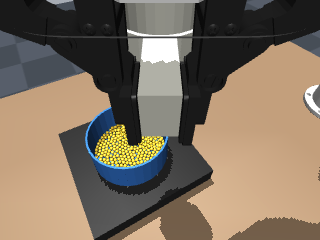
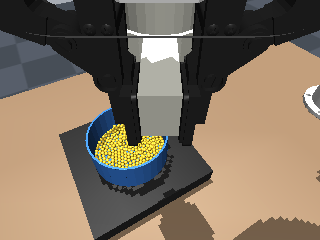
sim_xarm: README (layout, decisions, commands, diffusion_policy notes), final M1 numbers
Claude-Session: https://claude.ai/code/session_01ABg54f59N8u1Lt2EQujtwg

diff --git a/sim_xarm/README.md b/sim_xarm/README.md
@@ -3,9 +3,11 @@
 MuJoCo environment for the real-robot pouring task (`claude/FAVOR_real_robot_experiment_design.md`):
 xArm7 with a cup fixed in the closed gripper, 50.0 g of spherical beads, a 12 cm bowl on a scale,
 two cameras (fixed side + wrist), 10 Hz absolute joint targets (7-D action, no gripper command).
+Uses: simulation data for the real policy (zero-shot / co-training), xArm7 fault experiments in
+simulation, and offline safety checks of corrected trajectories before real runs.
 
-Nothing outside `sim_xarm/` is changed except the joint-limit hook in the shared IK modules (see M3),
-which leaves the Panda results bit-identical.
+Outside `sim_xarm/` only the joint-limit hook in the shared IK modules changed (M3); the Panda
+results are bit-identical (`tests/test_panda_ik_unchanged.py`). IK parameters are unchanged.
 
 ## Pinned versions
 
@@ -13,37 +15,65 @@ which leaves the Panda results bit-identical.
 |---|---|---|
 | MuJoCo (python) | `mujoco==3.17.0` | scene built with `MjSpec`; Menagerie requires >= 2.3.3 |
 | MuJoCo Menagerie | `f3b6013629c7b94f8ee93fd977b161fa8350f9bc` | `ufactory_xarm7` last changed in `71f066a` (2026-07-04) |
-| xarm_ros2 | `ac736c92b02de7ca7e0be6f737d77d46707464d8` | source of `config/kinematics/default/xarm7_default_kinematics.yaml` |
+| xarm_ros2 | `ac736c92b02de7ca7e0be6f737d77d46707464d8` | joint origins of `assets/xarm7_favor.urdf` |
 | pytorch_kinematics | `0.10.0` | |
-| torch | `2.15.0` (CPU build used for validation) | |
+| torch / torchvision | `2.15.0` / `0.29.2` (CPU, validation machine) | |
 | numpy / h5py / opencv-python-headless / PyYAML | 2.5.3 / 3.16.0 / 5.0.0.93 / 6.0.3 | |
+| diffusion_policy (data loader + training check) | upstream `5ba07ac` + zarr 2.18.4, numcodecs 0.15.2, diffusers 0.11.1, robomimic 0.2.0 | see "diffusion_policy" below |
 | Python | 3.13 | the LIBERO docker image is older; run sim_xarm in its own env |
-
-Setup:
 
 ```bash
 cd sim_xarm
 pip install -r requirements.txt
-./setup_assets.sh                     # Menagerie at the pinned commit -> sim_xarm/third_party/
-export MUJOCO_GL=egl                  # GPU server; use osmesa on CPU-only machines
+./setup_assets.sh                    # Menagerie at the pinned commit -> sim_xarm/third_party/
+export MUJOCO_GL=egl                 # GPU server (osmesa on CPU-only machines: ~0.2 s per frame)
 ```
+
+All randomness is seeded: episode seed -> bowl cell / beads jitter, `seed + 7` -> plan parameters,
+`[seed, 77]` -> domain randomisation, `(seed, call)` -> policy noise in rollouts.
+
+## Layout
+
+| path | content |
+|---|---|
+| `config/default.yaml` | **the one config tree**: scene dimensions, cameras, control, beads, task, randomisation. Every placeholder is marked `TODO(real): measure`. Override with `--config real.yaml` or `--set a.b=v` |
+| `favor_xarm/scene.py` | MjSpec scene: table, xArm7 (+ xArm gripper or Robotiq 2F-85), cup (rigidly on the gripper), bowl on a scale, beads, cameras |
+| `favor_xarm/env.py` | `PourEnv`: reset / 10 Hz `step(q_target)` / metrics (f, spill, cup residue, contact-force scale check) / safety flags / observations |
+| `favor_xarm/control.py` | command layer: Mode 1 (servo stream) and Mode 6 (online re-plan) emulation, speed limit, latency, velocity feedforward |
+| `favor_xarm/kinematics.py` | `XArm7Kinematics`, same interface as `PandaKinematics`, plus `q_lo/q_hi` |
+| `favor_xarm/scripted.py` | scripted pouring planner |
+| `favor_xarm/faults.py` | locked / range faults, mid-task onset |
+| `favor_xarm/correction.py` | B1 / W-IK pos / W-IK pose / Priority IK / orientation-first on a policy chunk |
+| `favor_xarm/randomization.py` | domain randomisation (off by default) |
+| `dp/` | diffusion_policy task yaml, dataset class, null runner |
+| `scripts/m*_*.py` | milestone scripts; results in `reports/` |
+| `tests/` | `test_ik_xarm.py`, `test_panda_ik_unchanged.py`, `test_camera.py`, `test_faults.py`, `test_dp_dataset.py` |
+
+## Scene decisions that differ from a first guess
+
+- **Cup mount `hang` (default)**: the gripper points down and pinches a vertical handle plate on the
+  cup side; the cup hangs beside the fingers. A forward-pointing gripper (cup axis perpendicular to
+  the approach axis, option `cup.mount: side`) cannot reach the near grid rows (J6 lower limit).
+- **Pouring direction**: yaw −120° (lip towards the robot's back-right), the only direction in a
+  12-way sweep that is feasible over the whole grid at 125° tilt with ≥ 0.48 rad joint margin.
+  Home: `[0.2517, −0.1347, −0.1080, 1.1221, −0.0152, 1.2560, −0.8979]` (cup mouth (0.40, 0, 0.30) m).
+- **Physics**: CG solver, 20 iterations, 2 ms (Newton: ~700 ms per step with ~2,500 bead DoFs;
+  10 CG iterations let beads through the walls). Cup and bowl have invisible collision shells 8 mm
+  thicker than the visual walls (beads tunnelled through 3–4 mm walls).
+- **Servo**: Menagerie PD gains with gravity compensation and velocity feedforward (tracking lag
+  0.03–0.06° at 0.5 rad/s instead of 2.9°). All gains, damping, latency are config parameters.
+- **Images**: row 0 = top, as a RealSense frame; unlike the LIBERO files, no flip (checked by
+  projection in `tests/test_camera.py`). fx/fy/cx/cy intrinsics are realised exactly at render time.
+- **Quaternion**: `robot0_eef_quat` is xyzw and made sign-continuous along each episode (the
+  canonical w ≥ 0 form jumps when the pour rotation passes 180°). Apply the same rule on the robot.
 
 ## Menagerie `ufactory_xarm7`: requirements and known limits (M0)
 
-From the model README and CHANGELOG at the pinned commit:
-
-- Requires MuJoCo 2.3.3 or later. A *simplified* description derived from the ROS1 `xarm_ros` URDF.
-- 2024-12-17: finger collision pads added, `armature = 0.1` on all joints.
-- Actuators: position servos (`general`, affine bias = PD), Menagerie gains below. No joint velocity
-  limit in the model; the official 180 deg/s is imposed by our command layer.
-- `link_base` sits 0.12 m above the world origin in the Menagerie file (pedestal); we mount it at
-  `robot.base_pos` instead.
-- The gripper base is rotated 180 deg about the flange z axis relative to link7 (`quat="0 0 0 1"`),
-  whereas the xarm_ros2 `xarm_gripper` attaches with identity rotation. Positions along the flange
-  axis are unaffected; the in-plane orientation of the gripper differs. **TODO(real): check which
-  matches the mounted gripper** (matters only for the gripper/TCP frame, not for link7).
-
-Full numbers: [`reports/m0_model.md`](reports/m0_model.md). Summary vs the official specification:
+From the model README and CHANGELOG at the pinned commit: requires MuJoCo >= 2.3.3; a simplified
+description derived from the ROS1 `xarm_ros` URDF; 2024-12-17 finger pads + `armature = 0.1`.
+Position servos (`general`, affine bias = PD), no velocity limit in the model. `link_base` sits 0.12 m
+above the origin (pedestal) — we mount it at `robot.base_pos`. The gripper is rotated 180° about the
+flange axis relative to link7, whereas xarm_ros2 attaches it with identity (**TODO(real): check**).
 
 | joint | Menagerie range (deg) | official (deg) | kp / kv | force limit (Nm) |
 |---|---|---|---|---|
@@ -55,10 +85,45 @@ Full numbers: [`reports/m0_model.md`](reports/m0_model.md). Summary vs the offic
 | J6 | −97.0 .. 180.0 | −97 .. 180 | 800 / 80 | ±20 |
 | J7 | ±360 | ±360 | 800 / 80 | ±20 |
 
-- J2 (+4°/−1°) and J4 (−5°) are wider than the official ranges → the scene and the IK use the
-  official ranges (`robot.joint_limits_deg`).
-- With the Menagerie gains, gravity alone leaves a steady-state tracking error of −0.52° (J2) and
-  +0.89° (J4) at the home keyframe (≈ 5–10 mm at the cup). The real xArm servo holds position to
-  ±0.1 mm repeatability, so the scene gravity-compensates the arm (`physics.gravity_comp`).
-- The force limits have not been checked against the official rated joint torques (not in the
-  public technical specification page). **TODO(real): check**.
+J2 and J4 are wider than the official ranges → the scene and the IK use the official ranges.
+Gravity alone gives −0.52° (J2) / +0.89° (J4) steady-state error with these gains → gravity
+compensation. Force limits not checked against rated torques (**TODO(real)**). Full: `reports/m0_model.md`.
+
+## Running the milestones (one line each, from `sim_xarm/`)
+
+```bash
+python scripts/m0_inspect_model.py
+python scripts/solve_home.py                                   # prints home_q for config
+python scripts/m1_scene_check.py                               # reports/m1_scene.md numbers
+python scripts/m2_step_response.py                             # reports/m2_step_response.png
+python scripts/m3_fk_check.py && python tests/test_ik_xarm.py && python tests/test_panda_ik_unchanged.py
+python scripts/m4_generate.py --out out/m4 --reps 10 --workers 16 --save-states
+python scripts/m4_report.py --run out/m4
+python scripts/m5_export.py --run out/m4 --out out/xarm_pour_200.hdf5 --n 200 --filter success --workers 16
+DIFFUSION_POLICY_ROOT=../diffusion_policy python tests/test_dp_dataset.py out/xarm_pour_200.hdf5
+python scripts/m6_diagnostics.py --reps 10
+python scripts/m7_dr_grid.py
+python tests/test_camera.py && python tests/test_faults.py
+```
+
+Large-scale data with continuous bowl positions: `m4_generate.py --set task.placement=uniform --n N`;
+domain randomisation: `--set randomization.enabled=true`. Generation resumes from `summary.csv`.
+
+## diffusion_policy
+
+`third_party/DIFFUSION_POLICY_COMMIT` (`20537a5`) is not in the public diffusion_policy repository,
+and the FAVOR patch modifies `robomimic_replay_joint_action_dataset.py`, which upstream does not
+have. sim_xarm therefore does not depend on that dataset class: `dp/xarm_pour_dataset.py` is
+self-contained on upstream components (replay buffer, sampler, normalisers; no pytorch3d) and
+range-normalises the 7-D joint action (upstream `RobomimicReplayImageDataset` would give it an
+identity normaliser with `abs_action: False`, or a rot6d conversion with `True`).
+
+```bash
+cp sim_xarm/dp/xarm_pour_image_joint.yaml diffusion_policy/diffusion_policy/config/task/
+export PYTHONPATH=$PWD/sim_xarm/dp:$PWD/sim_xarm:$PYTHONPATH
+cd diffusion_policy && python train.py --config-name=train_diffusion_unet_hybrid_workspace.yaml \
+  task=xarm_pour_image_joint task.dataset_path=/path/xarm_pour.hdf5 +checkpoint=joint_trainloss_topk
+```
+
+Rollouts and fault conditions: `scripts/m8_rollout.py --ckpt ... [--fault-joint 6 --method "Priority IK"]`
+(import order matters: torchvision before mujoco, else triton segfaults with the GL backend).

diff --git a/sim_xarm/reports/m1_scene.md b/sim_xarm/reports/m1_scene.md
@@ -16,14 +16,18 @@ as an option. A yaw sweep of the pouring direction over the grid corners (125° 
 `home_q = [0.2517, −0.1347, −0.1080, 1.1221, −0.0152, 1.2560, −0.8979]` (cup mouth at
 (0.40, 0, 0.30) m, upright, 0.04 mm / 0.004° after rounding).
 
-## Acceptance
+## Acceptance (final scene: collision shells, upright clearance, feedforward, no MSAA)
 
 | check | result |
 |---|---|
-| (a) upright at home for 10 s | **0 / 420** particles ever outside the cup; settled fill height 29.9 mm of 50 mm; max particle speed at the end 2.2 mm/s |
-| (b) scripted pour at the grid centre | f = **0.929** (46.4 g in the bowl), spill 3.6 g, cup residue 0 g, max tilt 123.7°, no safety flag; scale cross-check from bowl+scale contact forces 48.9 g (includes beads that landed on the scale plate) |
-| (c) real-time factor | physics: 0.27 during the pour, 0.09 while the full cup sits still (dense packing → most contacts); rendering both cameras: 0.86 s/step with CPU OSMesa (GPU EGL will be milliseconds) |
+| (a) upright at home for 10 s | **0 / 420** particles ever outside the cup; settled fill height 30.0 mm of 50 mm; max particle speed at the end 1.0 mm/s |
+| (b) scripted pour at the grid centre | f = **1.000** (50.0 g in the bowl), spill 0.0 g, cup residue 0 g, max tilt 123.7°, no safety flag, no robot-bowl contact; scale cross-check from bowl+scale contact forces **50.0 g** |
+| (c) real-time factor | physics: 0.24 during the pour, 0.14 while the full cup sits still (dense packing → most contacts); rendering both cameras: 0.34 s/step with CPU OSMesa (GPU EGL: milliseconds) |
 | (d) 84 × 84 images | `reports/m1/policy_images_84_grid.png` (rows: home, mid-pour; columns: side, wrist) and full-resolution frames in `reports/m1/` |
+
+First version of the scene (before the M4 fixes): (b) gave f = 0.929 / 0.955 with 2–4 g spill; the
+beads that were lost had tunnelled through the bowl bottom or been shaken out by cup-rim contact
+(see README, "Scene decisions").
 
 ## (c) Is it fast enough for thousands of demonstrations?
 
@@ -40,8 +44,10 @@ One scripted demonstration is ~14 s of simulated time + 1 s settling at reset + 
 | 8 mm | 178 | 10 | 0.208 | 39.6 | 2.69 | 6 |
 | 8 mm | 178 | 20 | 0.955 | 2.2 | 0.95 | 17 |
 
-(The sweep rows were run before velocity feedforward was enabled in M2; the 6 mm / 20 row gives
-both runs.) With 10 CG iterations the beads pass through the cup walls during the transfer
+(The sweep rows were run before velocity feedforward (M2) and the collision shells / upright
+clearance (M4); they measure speed and the iteration threshold, not the final f. The 6 mm / 20 row
+gives both runs. With the final scene the same pour gives f = 1.000 and the 250 M4 demonstrations
+mean f 1.000; their measured wall time on this machine was 55–75 s per episode per core.) With 10 CG iterations the beads pass through the cup walls during the transfer
 (f ≈ 0.1–0.2), so **20 iterations is the minimum**; 7 mm gives identical f at 20 and 30.
 
 Judgement: with the 6 mm default, one core makes ~50–60 demonstrations per hour (physics only,
